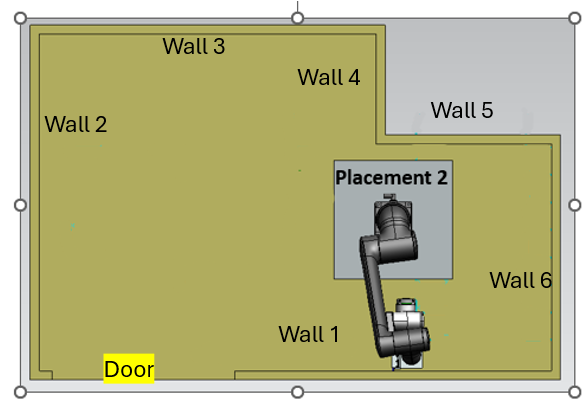
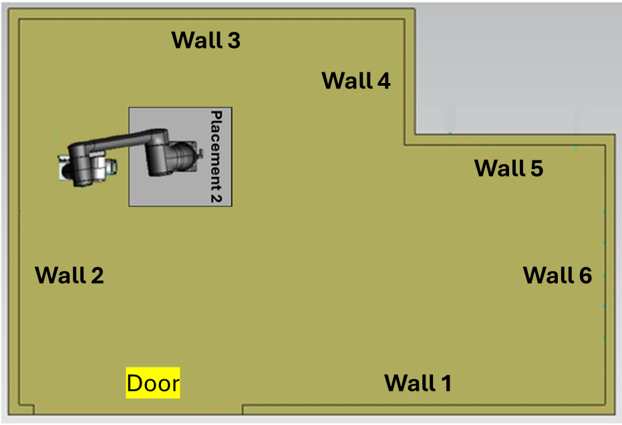
finalize ui and changes

diff --git a/newui_Greyform/ui_progress.py b/newui_Greyform/ui_progress.py
@@ -90,7 +90,7 @@ class ProgressUI(QObject):
         rows = [self.labels[i:i+2] for i in range(0, len(self.labels), 2)]
 
         parts = [
-            "<div style='font-weight:700;margin-bottom:8px'>Progress:</div>",
+            "<div style='font-weight:700;margin-bottom:8px;font-size:20px'>Progress:</div>",
             "<table cellspacing='0' cellpadding='6' style='border-collapse:collapse;table-layout:fixed;width:100%;max-width:520px;'>"
         ]
 
@@ -100,8 +100,8 @@ class ProgressUI(QObject):
             icon = tick if is_done else cross
             return (
                 "<td style='vertical-align:middle;white-space:nowrap;width:50%;'>"
-                f"  <img src='{icon}' width='18' height='18' style='vertical-align:middle;margin-right:6px'/>"
-                f"  <span>Wall {esc}</span>"
+                f"  <img src='{icon}' width='40' height='40' style='vertical-align:middle;margin-right:6px'/>"
+                f"  <span style='font-size:20px;'>Wall {esc}</span>"
                 "</td>"
             )
 
@@ -117,8 +117,8 @@ class ProgressUI(QObject):
     def set_processing_warning(self, wall_label, img="processing.png"):
         wall_label = html.escape(str(wall_label), quote=True)
         self.set_warning_sig.emit(
-            "<div style='display:inline-block;font-size:16px'>"
-            f"<img src='{img}' width='18' height='18' style='vertical-align:middle;margin-right:8px'/>"
+            "<div style='display:inline-block;font-size:20px'>"
+            f"<img src='{img}' width='40' height='40' style='vertical-align:middle;margin-right:8px'/>"
             f"<b>Please wait.</b> The robot is now marking wall <b>{wall_label}</b>."
             "</div>"
         )
@@ -128,8 +128,8 @@ class ProgressUI(QObject):
         if message is None:
             message = f"All {n} walls have been marked. Marking is completed."
         html_msg = (
-            "<div style='font-size:14px'>"
-            f"<img src='{check_icon_path}' width='16' height='16' "
+            "<div style='font-size:20px'>"
+            f"<img src='{check_icon_path}' width='40' height='40' "
             "style='vertical-align:middle;margin-right:8px'/>"
             f"{message}"
             "</div>"

diff --git a/newui_Greyform/mainwindowbuttoninteraction.py b/newui_Greyform/mainwindowbuttoninteraction.py
@@ -151,6 +151,11 @@ class mainwindowbuttonUI(object):
     
     # stacked widget page ui
     def start_scan(self):
+        if self.n == 1 :
+            icon = "placement2.png"
+            html = f'<div style="text-align:left;"><img src="{icon}" width="800" height="600" style="display:block; margin:0 auto;"></div>'
+            self.mainwindow.imagelabel.setTextFormat(Qt.RichText)
+            self.mainwindow.imagelabel.setText(html)
         self.nextButton.setEnabled(False)
         self.indicatelabel.hide()
         self.update_status_label("Please wait , the robot calculating its position.")
@@ -361,6 +366,10 @@ class mainwindowbuttonUI(object):
 
         if is_last:
             self.nextstepButton.setText("Finish")
+            iconindicator = "placementindicatorcompleted.png"
+            htmlindicator = f'<div style="text-align:center;"><img src="{iconindicator}" style="display:block; margin:0 auto;"></div>'
+            self.mainwindow.imageplacelabel.setTextFormat(Qt.RichText)
+            self.mainwindow.imageplacelabel.setText(htmlindicator)
             self.nextstepButton.clicked.connect(self._finish_and_close)
         else:
             self.nextstepButton.setText("Proceed to the next Placement")
@@ -445,7 +454,7 @@ class mainwindowbuttonUI(object):
 
         # placement illustration
         iconindicator = "placementindicator2.png"
-        icon = "placement2.png"
+        icon = "placement1-2.png"
         html = f'<div style="text-align:left;"><img src="{icon}" width="800" height="600" style="display:block; margin:0 auto;"></div>'
         htmlindicator = f'<div style="text-align:center;"><img src="{iconindicator}" style="display:block; margin:0 auto;"></div>'
         self.mainwindow.imagelabel.setTextFormat(Qt.RichText)
